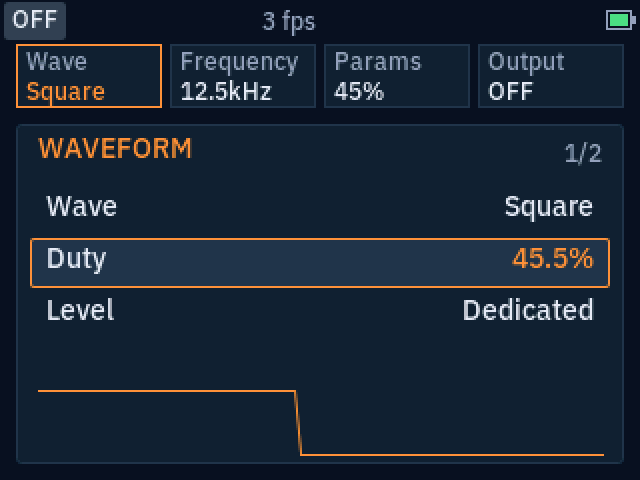
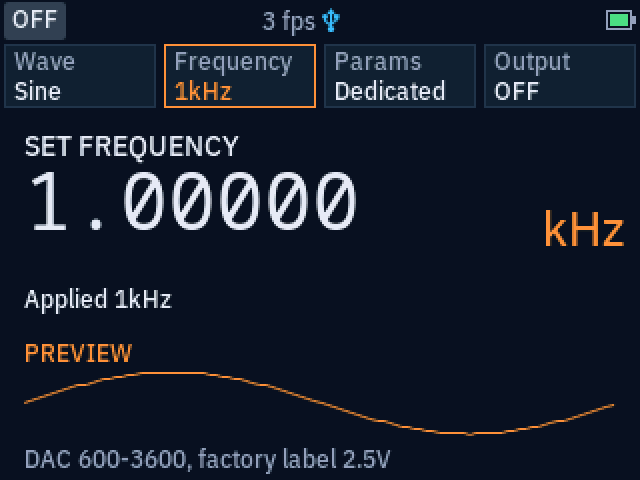
Update README screenshots to the current interface
Fresh ZT703S captures of the oscilloscope, digital and analog multimeter, generator and the Daylight/Amber color schemes. FFT and XY keep the earlier captures; the old auto setup capture is removed.

diff --git a/README.md b/README.md
@@ -28,12 +28,28 @@ Captured on a ZT703S running OpenOSC.
 
 <table>
   <tr>
-    <td><img src=".github/images/scope.png" width="320" alt="Oscilloscope: 10 MHz square wave on both channels with frequency and period readouts"></td>
-    <td><img src=".github/images/multimeter.png" width="320" alt="Multimeter: millivolts with MIN/MAX/AVG statistics and bar graph"></td>
+    <td><img src=".github/images/scope.png" width="320" alt="Oscilloscope: 20 kHz and 40 kHz square waves with frequency, duty and period readouts, soft-keys at the bottom"></td>
+    <td><img src=".github/images/multimeter.png" width="320" alt="Multimeter: AC voltage RMS with MIN/MAX/AVG statistics and bar graph"></td>
   </tr>
   <tr>
-    <td align="center">Oscilloscope: 10 MHz on both channels</td>
+    <td align="center">Oscilloscope, two channels</td>
     <td align="center">Multimeter with statistics</td>
+  </tr>
+  <tr>
+    <td><img src=".github/images/multimeter-analog.png" width="320" alt="Multimeter analog view: dial with REL reference and statistics"></td>
+    <td><img src=".github/images/generator.png" width="320" alt="Signal generator: sine at 1 kHz with frequency editor and waveform preview"></td>
+  </tr>
+  <tr>
+    <td align="center">Multimeter, analog view</td>
+    <td align="center">Signal generator</td>
+  </tr>
+  <tr>
+    <td><img src=".github/images/scheme-daylight.png" width="320" alt="Oscilloscope with the Daylight color scheme"></td>
+    <td><img src=".github/images/scheme-amber.png" width="320" alt="Oscilloscope with the Amber color scheme"></td>
+  </tr>
+  <tr>
+    <td align="center">Daylight color scheme</td>
+    <td align="center">Amber color scheme</td>
   </tr>
   <tr>
     <td><img src=".github/images/fft.png" width="320" alt="FFT, Blackman window, 2048 points, with frequency cursors"></td>
@@ -42,14 +58,6 @@ Captured on a ZT703S running OpenOSC.
   <tr>
     <td align="center">FFT with cursors</td>
     <td align="center">XY mode</td>
-  </tr>
-  <tr>
-    <td><img src=".github/images/auto-setup.png" width="320" alt="Auto setup: range and timebase selected automatically for a 1 kHz square wave"></td>
-    <td><img src=".github/images/generator.png" width="320" alt="Signal generator: square wave, frequency and duty cycle"></td>
-  </tr>
-  <tr>
-    <td align="center">Auto setup</td>
-    <td align="center">Signal generator</td>
   </tr>
 </table>
 
